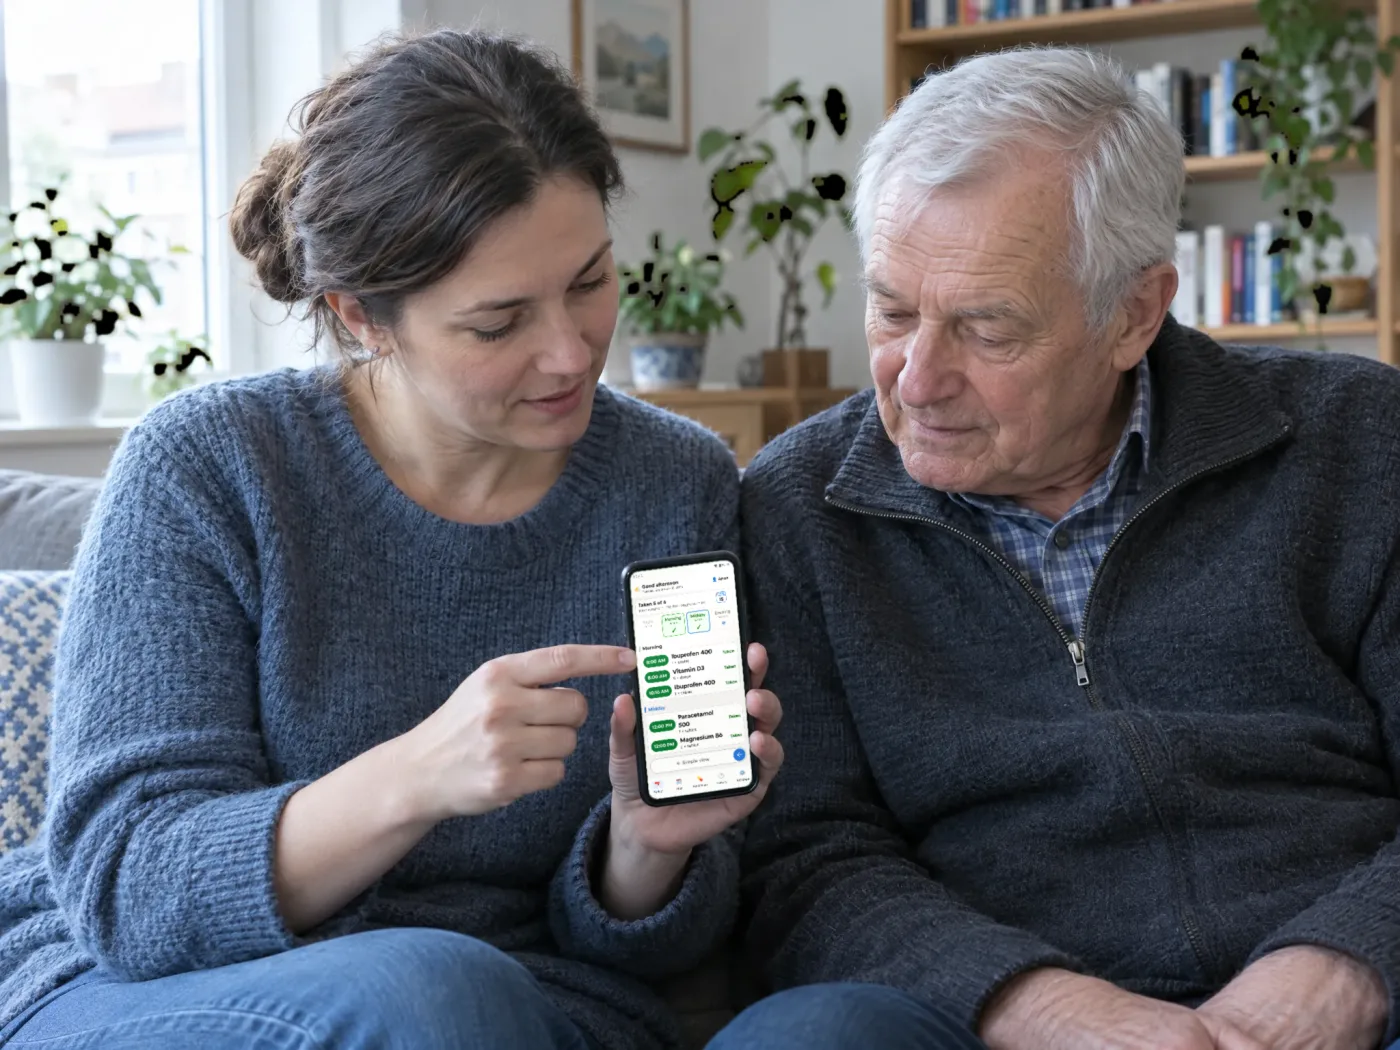
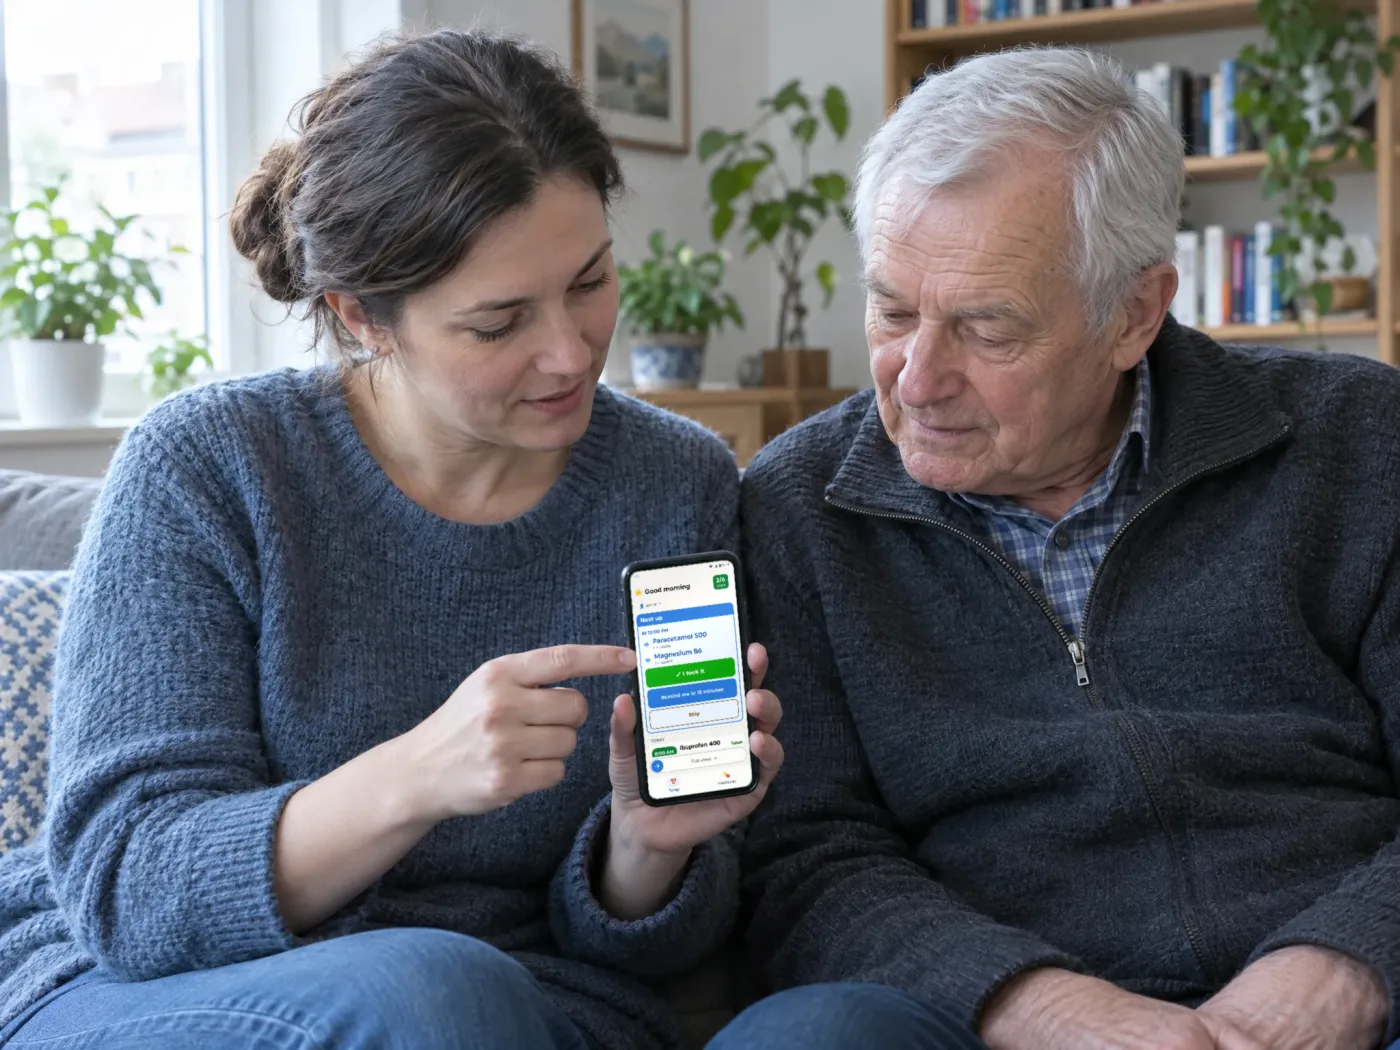
Mobile fixes (app tile, PillBell subnav, badge sizing), hand photo in PillBell hero, woman instead of couple, chroma fix for background plants, footer note scoped to this website
Claude-Session: https://claude.ai/code/session_0126i5H7AJp5RrJpwyETQSpc

diff --git a/docs/assets/site.css b/docs/assets/site.css
@@ -132,7 +132,7 @@ section { padding: 64px 0 0; }
 
 /* app tile */
 .app-tile { display: grid; grid-template-columns: 200px 1fr; gap: 32px; align-items: center; background: var(--surface); border: 1px solid var(--line); border-radius: 32px; padding: 28px; box-shadow: var(--shadow); margin-top: 30px; }
-.app-tile img { border-radius: 24px; border: 1px solid var(--line); }
+.app-tile img.photo { border-radius: 24px; }
 .app-tile h3 { font-size: 28px; }
 .tag { display: inline-block; font-size: 16px; font-weight: 700; color: #14284A; background: var(--sun); padding: 4px 12px; border-radius: 999px; margin-top: 10px; }
 .app-tile p { margin-top: 12px; color: var(--ink-2); }
@@ -239,7 +239,7 @@ details p { margin: 0; padding: 0 22px 20px; color: var(--ink-2); }
   .hero-panel.phone-bottom { padding-bottom: 0; }
   .hero-panel.phone-bottom .hero-copy { padding-bottom: 0; }
   .feature.flip > :first-child { order: 0; }
-  .app-tile img { width: 150px; }
+  .app-tile img.photo { width: 150px; }
   .site-foot .wrap { grid-template-columns: 1fr; }
   .band { grid-template-columns: 1fr; padding: 32px 24px; border-radius: 28px; }
   .guide-hero .panel { padding: 32px 24px 26px; border-radius: 28px; }
@@ -275,6 +275,7 @@ details p { margin: 0; padding: 0 22px 20px; color: var(--ink-2); }
 .subnav .wrap { display: flex; align-items: center; gap: 4px; flex-wrap: wrap; padding-top: 4px; padding-bottom: 4px; }
 .subnav-name { display: inline-flex; align-items: center; gap: 10px; font-weight: 800; margin-right: 12px; }
 .subnav-name svg { width: 30px; height: 30px; }
+@media (max-width: 560px) { .subnav .wrap { gap: 0 2px; padding-top: 8px; } .subnav-name { flex-basis: 100%; margin: 0 0 2px; } .subnav a { padding: 10px 12px; } .subnav a:first-of-type { margin-left: -12px; } }
 .subnav a { color: var(--ink-2); text-decoration: none; font-size: 16px; font-weight: 600; padding: 10px 14px; min-height: 44px; display: inline-flex; align-items: center; border-radius: 999px; }
 .subnav a:hover, .subnav a[aria-current="page"] { background: var(--sky); color: var(--ink); }
 
@@ -298,7 +299,7 @@ details p { margin: 0; padding: 0 22px 20px; color: var(--ink-2); }
 
 /* photos of people using the apps (illustrative, AI-generated; real screenshots on the phones) */
 .photo { display: block; width: 100%; height: auto; border-radius: 28px; object-fit: cover; aspect-ratio: 4 / 3; background: var(--sky); }
-.hero-photo { box-shadow: var(--phone-shadow); aspect-ratio: 4 / 5; object-position: 46% 45%; max-height: 640px; }
+.hero-photo { box-shadow: var(--phone-shadow); aspect-ratio: 4 / 5; object-position: 50% 40%; max-height: 640px; }
 .photo-pair { display: grid; grid-template-columns: repeat(auto-fit, minmax(min(300px, 100%), 1fr)); gap: 22px; margin-top: 22px; }
 .photo-wide { margin-top: 22px; aspect-ratio: 16 / 9; object-position: 50% 45%; }
 .feature img.photo { width: 100%; border: 0; border-radius: 28px; }
@@ -309,7 +310,7 @@ details p { margin: 0; padding: 0 22px 20px; color: var(--ink-2); }
 .tile-photo:hover img { transform: scale(1.02); }
 .tile-title { color: inherit; text-decoration: none; display: inline-block; padding: 7px 0; }
 .tile-title:hover { color: var(--brand-2); text-decoration: underline; text-underline-offset: 4px; }
-@media (max-width: 860px) { .app-tile img.photo { width: 100%; aspect-ratio: 4 / 3; } }
+@media (max-width: 860px) { .app-tile { grid-template-columns: 1fr; padding: 20px; } .app-tile img.photo { width: 100%; aspect-ratio: 4 / 3; } }
 
 /* official Google Play badge (artwork © Google LLC, used per Google's badge guidelines) */
 .play-link { display: inline-flex; border-radius: 10px; line-height: 0; transition: transform .12s var(--ease); }

diff --git a/docs/pillbell/index.html b/docs/pillbell/index.html
@@ -75,7 +75,7 @@
           <li><svg viewBox="0 0 24 24" fill="none" stroke="currentColor" stroke-width="2.4" stroke-linecap="round" stroke-linejoin="round" aria-hidden="true"><path d="M5 12.5l4.5 4.5L19 7.5"/></svg>Android &middot; 10 languages</li>
         </ul>
       </div>
-      <img class="photo hero-photo" fetchpriority="high" src="/assets/photos/pillbell-morning.webp" alt="Illustrative photo: a woman in her kitchen checks PillBell's Today screen in the morning, with her medicine boxes, coffee and a glass of water on the counter." width="1400" height="1050">
+      <img class="photo hero-photo" fetchpriority="high" src="/assets/photos/pillbell-hand.webp" alt="Illustrative photo: a hand holds a phone showing PillBell's Today screen: morning and midday medicines, each marked Taken." width="1200" height="1505">
       </div>
     </div>
   </div>
@@ -97,8 +97,8 @@
         </div>
       </div>
       <div class="photo-pair">
-        <img class="photo" src="/assets/photos/pillbell-breakfast.webp" alt="Illustrative photo: at breakfast, a man shows his wife his medicines for the day in PillBell." width="1400" height="1050" loading="lazy" decoding="async">
-        <img class="photo" src="/assets/photos/pillbell-family.webp" alt="Illustrative photo: a daughter sits on the sofa with her father and shows him PillBell's Today screen on his phone." width="1400" height="1050" loading="lazy" decoding="async">
+        <img class="photo" src="/assets/photos/pillbell-morning.webp" alt="Illustrative photo: a woman in her kitchen checks PillBell's Today screen in the morning, with her medicine boxes, coffee and a glass of water on the counter." width="1400" height="1050" loading="lazy" decoding="async">
+        <img class="photo" src="/assets/photos/pillbell-family.webp" alt="Illustrative photo: a daughter sits on the sofa with her father and shows him PillBell's simple mode on his phone: the next medicines and a large I took it button." width="1400" height="1050" loading="lazy" decoding="async">
       </div>
     </div>
   </section>
@@ -239,7 +239,8 @@
         <svg viewBox="0 0 100 100" aria-hidden="true"><circle class="logo-on" cx="20" cy="20" r="13"/><circle class="logo-on" cx="50" cy="20" r="13"/><circle class="logo-on" cx="80" cy="20" r="13"/><circle class="logo-off" cx="20" cy="50" r="13"/><circle class="logo-on" cx="50" cy="50" r="13"/><circle class="logo-off" cx="80" cy="50" r="13"/><circle class="logo-off" cx="20" cy="80" r="13"/><circle class="logo-on" cx="50" cy="80" r="13"/><circle class="logo-sun" cx="80" cy="80" r="13"/></svg>
         <span>Tomelo</span>
       </a>
-      <p>Simple, private apps that do one job reliably. No accounts, no tracking, no ads. Pay once.</p>
+      <p>Simple apps that do one job reliably.</p>
+      <p class="note">This website uses no cookies and no ads. Visits are counted without cookies.</p>
     </div>
     <div>
       <p class="foot-title">Apps</p>

diff --git a/docs/pillbell/guide/uk.html b/docs/pillbell/guide/uk.html
@@ -254,7 +254,8 @@ PillBell не має доступу до інтернету й нічого не
         <svg viewBox="0 0 100 100" aria-hidden="true"><circle class="logo-on" cx="20" cy="20" r="13"/><circle class="logo-on" cx="50" cy="20" r="13"/><circle class="logo-on" cx="80" cy="20" r="13"/><circle class="logo-off" cx="20" cy="50" r="13"/><circle class="logo-on" cx="50" cy="50" r="13"/><circle class="logo-off" cx="80" cy="50" r="13"/><circle class="logo-off" cx="20" cy="80" r="13"/><circle class="logo-on" cx="50" cy="80" r="13"/><circle class="logo-sun" cx="80" cy="80" r="13"/></svg>
         <span>Tomelo</span>
       </a>
-      <p>Simple, private apps that do one job reliably. No accounts, no tracking, no ads. Pay once.</p>
+      <p>Simple apps that do one job reliably.</p>
+      <p class="note">This website uses no cookies and no ads. Visits are counted without cookies.</p>
     </div>
     <div>
       <p class="foot-title">Apps</p>

diff --git a/docs/pillbell/guide/es.html b/docs/pillbell/guide/es.html
@@ -254,7 +254,8 @@ checo, francés, italiano, polaco, neerlandés, portugués y ucraniano.</p>
         <svg viewBox="0 0 100 100" aria-hidden="true"><circle class="logo-on" cx="20" cy="20" r="13"/><circle class="logo-on" cx="50" cy="20" r="13"/><circle class="logo-on" cx="80" cy="20" r="13"/><circle class="logo-off" cx="20" cy="50" r="13"/><circle class="logo-on" cx="50" cy="50" r="13"/><circle class="logo-off" cx="80" cy="50" r="13"/><circle class="logo-off" cx="20" cy="80" r="13"/><circle class="logo-on" cx="50" cy="80" r="13"/><circle class="logo-sun" cx="80" cy="80" r="13"/></svg>
         <span>Tomelo</span>
       </a>
-      <p>Simple, private apps that do one job reliably. No accounts, no tracking, no ads. Pay once.</p>
+      <p>Simple apps that do one job reliably.</p>
+      <p class="note">This website uses no cookies and no ads. Visits are counted without cookies.</p>
     </div>
     <div>
       <p class="foot-title">Apps</p>

diff --git a/docs/pillbell/guide/pt.html b/docs/pillbell/guide/pt.html
@@ -255,7 +255,8 @@ francês, espanhol, italiano, polaco, neerlandês e ucraniano.</p>
         <svg viewBox="0 0 100 100" aria-hidden="true"><circle class="logo-on" cx="20" cy="20" r="13"/><circle class="logo-on" cx="50" cy="20" r="13"/><circle class="logo-on" cx="80" cy="20" r="13"/><circle class="logo-off" cx="20" cy="50" r="13"/><circle class="logo-on" cx="50" cy="50" r="13"/><circle class="logo-off" cx="80" cy="50" r="13"/><circle class="logo-off" cx="20" cy="80" r="13"/><circle class="logo-on" cx="50" cy="80" r="13"/><circle class="logo-sun" cx="80" cy="80" r="13"/></svg>
         <span>Tomelo</span>
       </a>
-      <p>Simple, private apps that do one job reliably. No accounts, no tracking, no ads. Pay once.</p>
+      <p>Simple apps that do one job reliably.</p>
+      <p class="note">This website uses no cookies and no ads. Visits are counted without cookies.</p>
     </div>
     <div>
       <p class="foot-title">Apps</p>

diff --git a/docs/pillbell/guide/it.html b/docs/pillbell/guide/it.html
@@ -256,7 +256,8 @@ francese, spagnolo, polacco, olandese, portoghese e ucraino.</p>
         <svg viewBox="0 0 100 100" aria-hidden="true"><circle class="logo-on" cx="20" cy="20" r="13"/><circle class="logo-on" cx="50" cy="20" r="13"/><circle class="logo-on" cx="80" cy="20" r="13"/><circle class="logo-off" cx="20" cy="50" r="13"/><circle class="logo-on" cx="50" cy="50" r="13"/><circle class="logo-off" cx="80" cy="50" r="13"/><circle class="logo-off" cx="20" cy="80" r="13"/><circle class="logo-on" cx="50" cy="80" r="13"/><circle class="logo-sun" cx="80" cy="80" r="13"/></svg>
         <span>Tomelo</span>
       </a>
-      <p>Simple, private apps that do one job reliably. No accounts, no tracking, no ads. Pay once.</p>
+      <p>Simple apps that do one job reliably.</p>
+      <p class="note">This website uses no cookies and no ads. Visits are counted without cookies.</p>
     </div>
     <div>
       <p class="foot-title">Apps</p>

diff --git a/docs/pillbell/guide/nl.html b/docs/pillbell/guide/nl.html
@@ -255,7 +255,8 @@ Italiaans, Pools, Portugees en Oekraïens.</p>
         <svg viewBox="0 0 100 100" aria-hidden="true"><circle class="logo-on" cx="20" cy="20" r="13"/><circle class="logo-on" cx="50" cy="20" r="13"/><circle class="logo-on" cx="80" cy="20" r="13"/><circle class="logo-off" cx="20" cy="50" r="13"/><circle class="logo-on" cx="50" cy="50" r="13"/><circle class="logo-off" cx="80" cy="50" r="13"/><circle class="logo-off" cx="20" cy="80" r="13"/><circle class="logo-on" cx="50" cy="80" r="13"/><circle class="logo-sun" cx="80" cy="80" r="13"/></svg>
         <span>Tomelo</span>
       </a>
-      <p>Simple, private apps that do one job reliably. No accounts, no tracking, no ads. Pay once.</p>
+      <p>Simple apps that do one job reliably.</p>
+      <p class="note">This website uses no cookies and no ads. Visits are counted without cookies.</p>
     </div>
     <div>
       <p class="foot-title">Apps</p>

diff --git a/docs/pillbell/guide/index.html b/docs/pillbell/guide/index.html
@@ -248,7 +248,8 @@ Polish, Dutch, Portuguese and Ukrainian.</p>
         <svg viewBox="0 0 100 100" aria-hidden="true"><circle class="logo-on" cx="20" cy="20" r="13"/><circle class="logo-on" cx="50" cy="20" r="13"/><circle class="logo-on" cx="80" cy="20" r="13"/><circle class="logo-off" cx="20" cy="50" r="13"/><circle class="logo-on" cx="50" cy="50" r="13"/><circle class="logo-off" cx="80" cy="50" r="13"/><circle class="logo-off" cx="20" cy="80" r="13"/><circle class="logo-on" cx="50" cy="80" r="13"/><circle class="logo-sun" cx="80" cy="80" r="13"/></svg>
         <span>Tomelo</span>
       </a>
-      <p>Simple, private apps that do one job reliably. No accounts, no tracking, no ads. Pay once.</p>
+      <p>Simple apps that do one job reliably.</p>
+      <p class="note">This website uses no cookies and no ads. Visits are counted without cookies.</p>
     </div>
     <div>
       <p class="foot-title">Apps</p>

diff --git a/docs/pillbell/guide/cs.html b/docs/pillbell/guide/cs.html
@@ -250,7 +250,8 @@ a ukrajinsky.</p>
         <svg viewBox="0 0 100 100" aria-hidden="true"><circle class="logo-on" cx="20" cy="20" r="13"/><circle class="logo-on" cx="50" cy="20" r="13"/><circle class="logo-on" cx="80" cy="20" r="13"/><circle class="logo-off" cx="20" cy="50" r="13"/><circle class="logo-on" cx="50" cy="50" r="13"/><circle class="logo-off" cx="80" cy="50" r="13"/><circle class="logo-off" cx="20" cy="80" r="13"/><circle class="logo-on" cx="50" cy="80" r="13"/><circle class="logo-sun" cx="80" cy="80" r="13"/></svg>
         <span>Tomelo</span>
       </a>
-      <p>Simple, private apps that do one job reliably. No accounts, no tracking, no ads. Pay once.</p>
+      <p>Simple apps that do one job reliably.</p>
+      <p class="note">This website uses no cookies and no ads. Visits are counted without cookies.</p>
     </div>
     <div>
       <p class="foot-title">Apps</p>

diff --git a/docs/pillbell/guide/fr.html b/docs/pillbell/guide/fr.html
@@ -261,7 +261,8 @@ et ukrainien.</p>
         <svg viewBox="0 0 100 100" aria-hidden="true"><circle class="logo-on" cx="20" cy="20" r="13"/><circle class="logo-on" cx="50" cy="20" r="13"/><circle class="logo-on" cx="80" cy="20" r="13"/><circle class="logo-off" cx="20" cy="50" r="13"/><circle class="logo-on" cx="50" cy="50" r="13"/><circle class="logo-off" cx="80" cy="50" r="13"/><circle class="logo-off" cx="20" cy="80" r="13"/><circle class="logo-on" cx="50" cy="80" r="13"/><circle class="logo-sun" cx="80" cy="80" r="13"/></svg>
         <span>Tomelo</span>
       </a>
-      <p>Simple, private apps that do one job reliably. No accounts, no tracking, no ads. Pay once.</p>
+      <p>Simple apps that do one job reliably.</p>
+      <p class="note">This website uses no cookies and no ads. Visits are counted without cookies.</p>
     </div>
     <div>
       <p class="foot-title">Apps</p>

diff --git a/docs/pillbell/guide/pl.html b/docs/pillbell/guide/pl.html
@@ -254,7 +254,8 @@ i ukraińsku.</p>
         <svg viewBox="0 0 100 100" aria-hidden="true"><circle class="logo-on" cx="20" cy="20" r="13"/><circle class="logo-on" cx="50" cy="20" r="13"/><circle class="logo-on" cx="80" cy="20" r="13"/><circle class="logo-off" cx="20" cy="50" r="13"/><circle class="logo-on" cx="50" cy="50" r="13"/><circle class="logo-off" cx="80" cy="50" r="13"/><circle class="logo-off" cx="20" cy="80" r="13"/><circle class="logo-on" cx="50" cy="80" r="13"/><circle class="logo-sun" cx="80" cy="80" r="13"/></svg>
         <span>Tomelo</span>
       </a>
-      <p>Simple, private apps that do one job reliably. No accounts, no tracking, no ads. Pay once.</p>
+      <p>Simple apps that do one job reliably.</p>
+      <p class="note">This website uses no cookies and no ads. Visits are counted without cookies.</p>
     </div>
     <div>
       <p class="foot-title">Apps</p>

diff --git a/docs/pillbell/guide/de.html b/docs/pillbell/guide/de.html
@@ -258,7 +258,8 @@ Ukrainisch.</p>
         <svg viewBox="0 0 100 100" aria-hidden="true"><circle class="logo-on" cx="20" cy="20" r="13"/><circle class="logo-on" cx="50" cy="20" r="13"/><circle class="logo-on" cx="80" cy="20" r="13"/><circle class="logo-off" cx="20" cy="50" r="13"/><circle class="logo-on" cx="50" cy="50" r="13"/><circle class="logo-off" cx="80" cy="50" r="13"/><circle class="logo-off" cx="20" cy="80" r="13"/><circle class="logo-on" cx="50" cy="80" r="13"/><circle class="logo-sun" cx="80" cy="80" r="13"/></svg>
         <span>Tomelo</span>
       </a>
-      <p>Simple, private apps that do one job reliably. No accounts, no tracking, no ads. Pay once.</p>
+      <p>Simple apps that do one job reliably.</p>
+      <p class="note">This website uses no cookies and no ads. Visits are counted without cookies.</p>
     </div>
     <div>
       <p class="foot-title">Apps</p>
